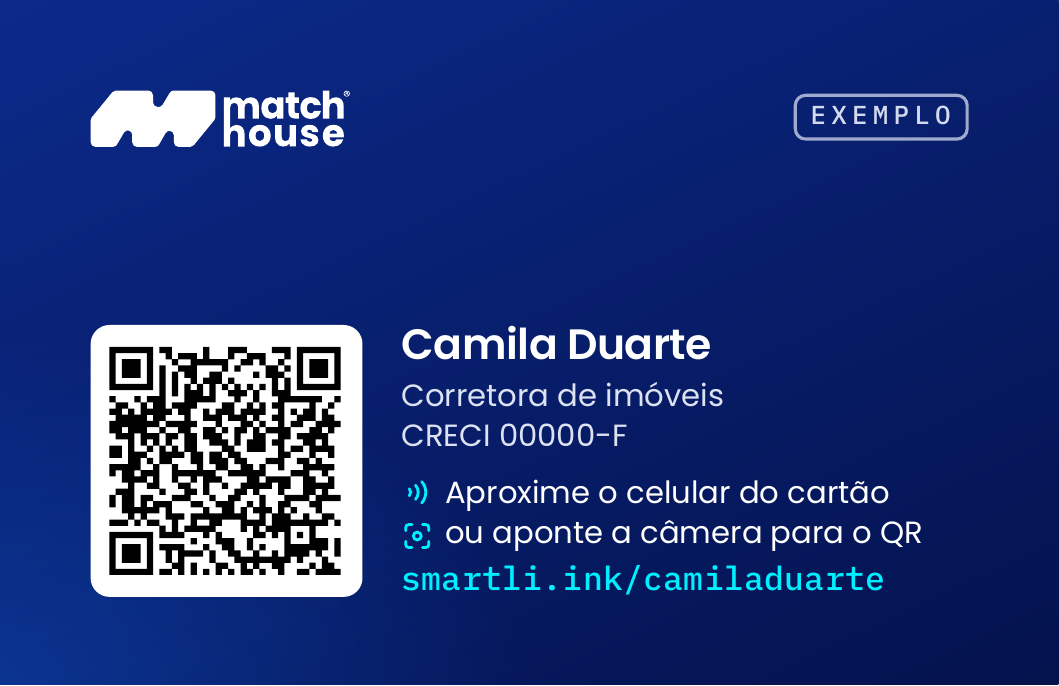
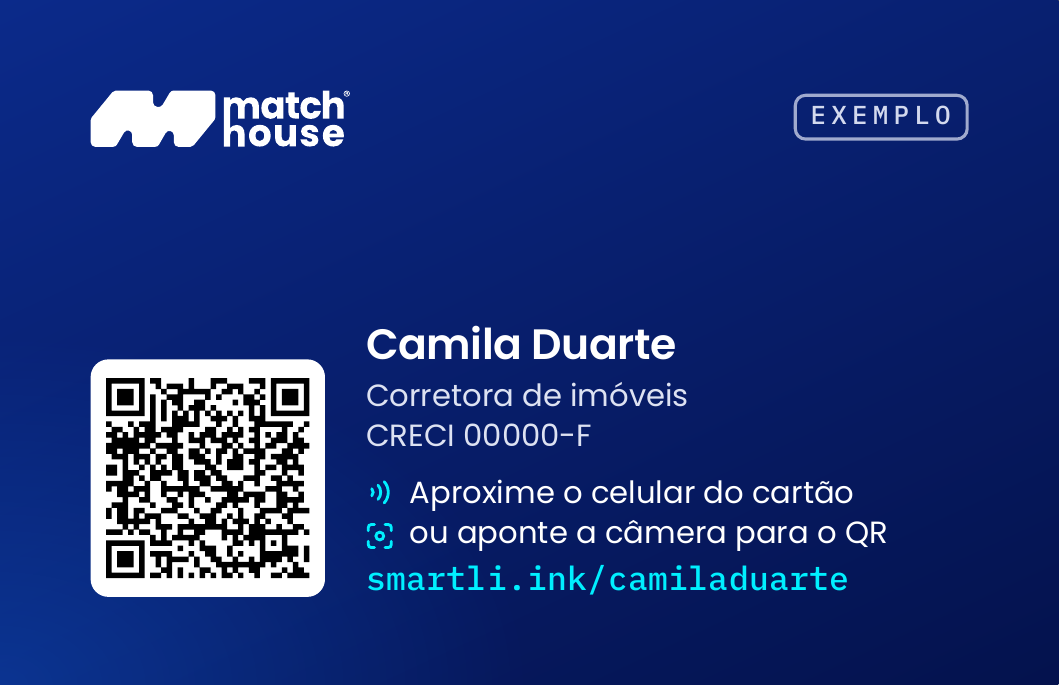
ferramentas: QR do verso do cartão um pouco menor (17 mm)
Pedido do Mateus: "diminua um pouco a parte do Qr code". O quadro branco
passa de 23 para 20 mm e o texto chega 3 mm para a esquerda. Amostra 2
(INMC) gerada de novo.

Claude-Session: https://claude.ai/code/session_01AcwN8eqkNLzNHMM46binBv

Changed region(s): [[0.0623, 0.4592, 0.8725, 0.8878]]

diff --git a/ferramentas/cartao/amostra-inmc-v2.html b/ferramentas/cartao/amostra-inmc-v2.html
@@ -18,7 +18,8 @@
     cor sai mais escura que na tela; os fundos da v1 saíram pretos);
   - texto branco ou quase branco, sem cinza escuro; o menor texto tem
     2,6 mm de corpo (7,4 pt), contra 1,8 mm (5,1 pt) na v1;
-  - QR de 19,5 mm (12,45 mm na v1), módulo de 0,53 mm.
+  - QR de 17 mm (12,45 mm na v1), módulo de 0,46 mm. Primeiro foi de 19,5 mm;
+    o Mateus pediu: "diminua um pouco a parte do Qr code".
   A v1 está no commit 1deddfa e em v1/.
 
   Página: 89,6 x 58 mm = cartão CR80 (85,6 x 54 mm) + 2 mm de sangria por
@@ -111,20 +112,20 @@
   .back .exemplo { right: 7.5mm; top: 7.9mm; }
 
   .qr-box {
-    left: 7.6mm; top: 27.5mm; width: 23mm; height: 23mm; background: #fff; border-radius: 1.6mm;
+    left: 7.6mm; top: 30.5mm; width: 20mm; height: 20mm; background: #fff; border-radius: 1.5mm;
     display: grid; place-items: center;
   }
-  .qr-box img { width: 19.5mm; height: 19.5mm; display: block; }
+  .qr-box img { width: 17mm; height: 17mm; display: block; }
 
-  .verso-nome { left: 34mm; top: 27.6mm; font-weight: 600; font-size: 3.6mm; line-height: 1; letter-spacing: -.01em; white-space: nowrap; }
-  .verso-sub { left: 34mm; font-weight: 400; font-size: 2.6mm; line-height: 1; color: var(--sub); white-space: nowrap; }
+  .verso-nome { left: 31mm; top: 27.6mm; font-weight: 600; font-size: 3.6mm; line-height: 1; letter-spacing: -.01em; white-space: nowrap; }
+  .verso-sub { left: 31mm; font-weight: 400; font-size: 2.6mm; line-height: 1; color: var(--sub); white-space: nowrap; }
   .verso-sub.s1 { top: 32.3mm; }
   .verso-sub.s2 { top: 35.6mm; }
-  .instr { left: 34mm; display: flex; align-items: center; gap: 1.3mm; font-size: 2.6mm; line-height: 1; white-space: nowrap; }
+  .instr { left: 31mm; display: flex; align-items: center; gap: 1.3mm; font-size: 2.6mm; line-height: 1; white-space: nowrap; }
   .instr svg { width: 2.4mm; height: 2.4mm; flex: none; }
   .instr.l1 { top: 40.5mm; }
   .instr.l2 { top: 44mm; }
-  .back .link { left: 34mm; top: 47.6mm; font-size: 2.8mm; letter-spacing: .01em; }
+  .back .link { left: 31mm; top: 47.6mm; font-size: 2.8mm; letter-spacing: .01em; }
 
   .exemplo {
     font-family: "Plex Mono", monospace; font-weight: 500; font-size: 2.2mm; line-height: 1;
@@ -177,7 +178,7 @@
     <!-- DADOS: QR (qr.mjs) -->
   <div class="abs qr-box"><img src="qr-inmcpatrimonial.svg" alt=""></div>
   <!-- DADOS: nome, profissão e CRECI -->
-  <div class="abs verso-nome" data-fit="48" data-min="2.8">INMC Patrimonial</div>
+  <div class="abs verso-nome" data-fit="51" data-min="2.8">INMC Patrimonial</div>
   <div class="abs verso-sub s1">Corretor de imóveis</div>
   <div class="abs instr l1">
     <svg viewBox="0 0 16 16" fill="none" stroke="var(--acc)" stroke-width="1.6" stroke-linecap="round"><path d="M3.5 6a3 3 0 0 1 0 4"/><path d="M7 4a6 6 0 0 1 0 8"/><path d="M10.5 2a9 9 0 0 1 0 12"/></svg>
@@ -187,7 +188,7 @@
     <svg viewBox="0 0 16 16" fill="none" stroke="var(--acc)" stroke-width="1.6" stroke-linecap="round"><path d="M1.5 5V3.2c0-1 .7-1.7 1.7-1.7H5M11 1.5h1.8c1 0 1.7.7 1.7 1.7V5M14.5 11v1.8c0 1-.7 1.7-1.7 1.7H11M5 14.5H3.2c-1 0-1.7-.7-1.7-1.7V11"/><circle cx="8" cy="8" r="2.2"/></svg>
     ou aponte a câmera para o QR
   </div>
-  <div class="abs link" data-fit="48" data-min="2.3">smartli.ink/inmcpatrimonial</div>
+  <div class="abs link" data-fit="51" data-min="2.3">smartli.ink/inmcpatrimonial</div>
 </section>
 
 <!-- ====================== BLUE · FRENTE ====================== -->
@@ -224,7 +225,7 @@
   <div class="bg"></div>
   <img class="abs wordmark" src="wordmark-branco.svg" alt="Match House">
     <div class="abs qr-box"><img src="qr-inmcpatrimonial.svg" alt=""></div>
-  <div class="abs verso-nome" data-fit="48" data-min="2.8">INMC Patrimonial</div>
+  <div class="abs verso-nome" data-fit="51" data-min="2.8">INMC Patrimonial</div>
   <div class="abs verso-sub s1">Corretor de imóveis</div>
   <div class="abs instr l1">
     <svg viewBox="0 0 16 16" fill="none" stroke="var(--acc)" stroke-width="1.6" stroke-linecap="round"><path d="M3.5 6a3 3 0 0 1 0 4"/><path d="M7 4a6 6 0 0 1 0 8"/><path d="M10.5 2a9 9 0 0 1 0 12"/></svg>
@@ -234,7 +235,7 @@
     <svg viewBox="0 0 16 16" fill="none" stroke="var(--acc)" stroke-width="1.6" stroke-linecap="round"><path d="M1.5 5V3.2c0-1 .7-1.7 1.7-1.7H5M11 1.5h1.8c1 0 1.7.7 1.7 1.7V5M14.5 11v1.8c0 1-.7 1.7-1.7 1.7H11M5 14.5H3.2c-1 0-1.7-.7-1.7-1.7V11"/><circle cx="8" cy="8" r="2.2"/></svg>
     ou aponte a câmera para o QR
   </div>
-  <div class="abs link" data-fit="48" data-min="2.3">smartli.ink/inmcpatrimonial</div>
+  <div class="abs link" data-fit="51" data-min="2.3">smartli.ink/inmcpatrimonial</div>
 </section>
 
 <script>

diff --git a/ferramentas/cartao/cartoes-camila.html b/ferramentas/cartao/cartoes-camila.html
@@ -15,7 +15,8 @@
     cor sai mais escura que na tela; os fundos da v1 saíram pretos);
   - texto branco ou quase branco, sem cinza escuro; o menor texto tem
     2,6 mm de corpo (7,4 pt), contra 1,8 mm (5,1 pt) na v1;
-  - QR de 19,5 mm (12,45 mm na v1), módulo de 0,53 mm.
+  - QR de 17 mm (12,45 mm na v1), módulo de 0,46 mm. Primeiro foi de 19,5 mm;
+    o Mateus pediu: "diminua um pouco a parte do Qr code".
   A v1 está no commit 1deddfa e em v1/.
 
   Página: 89,6 x 58 mm = cartão CR80 (85,6 x 54 mm) + 2 mm de sangria por
@@ -108,20 +109,20 @@
   .back .exemplo { right: 7.5mm; top: 7.9mm; }
 
   .qr-box {
-    left: 7.6mm; top: 27.5mm; width: 23mm; height: 23mm; background: #fff; border-radius: 1.6mm;
+    left: 7.6mm; top: 30.5mm; width: 20mm; height: 20mm; background: #fff; border-radius: 1.5mm;
     display: grid; place-items: center;
   }
-  .qr-box img { width: 19.5mm; height: 19.5mm; display: block; }
+  .qr-box img { width: 17mm; height: 17mm; display: block; }
 
-  .verso-nome { left: 34mm; top: 27.6mm; font-weight: 600; font-size: 3.6mm; line-height: 1; letter-spacing: -.01em; white-space: nowrap; }
-  .verso-sub { left: 34mm; font-weight: 400; font-size: 2.6mm; line-height: 1; color: var(--sub); white-space: nowrap; }
+  .verso-nome { left: 31mm; top: 27.6mm; font-weight: 600; font-size: 3.6mm; line-height: 1; letter-spacing: -.01em; white-space: nowrap; }
+  .verso-sub { left: 31mm; font-weight: 400; font-size: 2.6mm; line-height: 1; color: var(--sub); white-space: nowrap; }
   .verso-sub.s1 { top: 32.3mm; }
   .verso-sub.s2 { top: 35.6mm; }
-  .instr { left: 34mm; display: flex; align-items: center; gap: 1.3mm; font-size: 2.6mm; line-height: 1; white-space: nowrap; }
+  .instr { left: 31mm; display: flex; align-items: center; gap: 1.3mm; font-size: 2.6mm; line-height: 1; white-space: nowrap; }
   .instr svg { width: 2.4mm; height: 2.4mm; flex: none; }
   .instr.l1 { top: 40.5mm; }
   .instr.l2 { top: 44mm; }
-  .back .link { left: 34mm; top: 47.6mm; font-size: 2.8mm; letter-spacing: .01em; }
+  .back .link { left: 31mm; top: 47.6mm; font-size: 2.8mm; letter-spacing: .01em; }
 
   .exemplo {
     font-family: "Plex Mono", monospace; font-weight: 500; font-size: 2.2mm; line-height: 1;
@@ -173,7 +174,7 @@
   <!-- DADOS: QR (qr.mjs) -->
   <div class="abs qr-box"><img src="qr-camila.svg" alt=""></div>
   <!-- DADOS: nome, profissão e CRECI -->
-  <div class="abs verso-nome" data-fit="48" data-min="2.8">Camila Duarte</div>
+  <div class="abs verso-nome" data-fit="51" data-min="2.8">Camila Duarte</div>
   <div class="abs verso-sub s1">Corretora de imóveis</div>
   <div class="abs verso-sub s2">CRECI 00000-F</div>
   <div class="abs instr l1">
@@ -184,7 +185,7 @@
     <svg viewBox="0 0 16 16" fill="none" stroke="var(--acc)" stroke-width="1.6" stroke-linecap="round"><path d="M1.5 5V3.2c0-1 .7-1.7 1.7-1.7H5M11 1.5h1.8c1 0 1.7.7 1.7 1.7V5M14.5 11v1.8c0 1-.7 1.7-1.7 1.7H11M5 14.5H3.2c-1 0-1.7-.7-1.7-1.7V11"/><circle cx="8" cy="8" r="2.2"/></svg>
     ou aponte a câmera para o QR
   </div>
-  <div class="abs link" data-fit="48" data-min="2.3">smartli.ink/camiladuarte</div>
+  <div class="abs link" data-fit="51" data-min="2.3">smartli.ink/camiladuarte</div>
 </section>
 
 <!-- ====================== BLUE · FRENTE ====================== -->
@@ -223,7 +224,7 @@
   <img class="abs wordmark" src="wordmark-branco.svg" alt="Match House">
   <div class="abs exemplo">EXEMPLO</div>
   <div class="abs qr-box"><img src="qr-camila.svg" alt=""></div>
-  <div class="abs verso-nome" data-fit="48" data-min="2.8">Camila Duarte</div>
+  <div class="abs verso-nome" data-fit="51" data-min="2.8">Camila Duarte</div>
   <div class="abs verso-sub s1">Corretora de imóveis</div>
   <div class="abs verso-sub s2">CRECI 00000-F</div>
   <div class="abs instr l1">
@@ -234,7 +235,7 @@
     <svg viewBox="0 0 16 16" fill="none" stroke="var(--acc)" stroke-width="1.6" stroke-linecap="round"><path d="M1.5 5V3.2c0-1 .7-1.7 1.7-1.7H5M11 1.5h1.8c1 0 1.7.7 1.7 1.7V5M14.5 11v1.8c0 1-.7 1.7-1.7 1.7H11M5 14.5H3.2c-1 0-1.7-.7-1.7-1.7V11"/><circle cx="8" cy="8" r="2.2"/></svg>
     ou aponte a câmera para o QR
   </div>
-  <div class="abs link" data-fit="48" data-min="2.3">smartli.ink/camiladuarte</div>
+  <div class="abs link" data-fit="51" data-min="2.3">smartli.ink/camiladuarte</div>
 </section>
 
 <script>

diff --git a/ferramentas/cartao/LEIA-ME.md b/ferramentas/cartao/LEIA-ME.md
@@ -20,7 +20,7 @@ A v2 muda:
 - texto branco ou quase branco, sem cinza escuro; logo e wordmark brancos;
 - letra maior: menor texto 2,6 mm de corpo (7,4 pt), nome da IA 6,6 mm,
   link 3,0 mm na frente e 2,8 mm no verso (na v1, 1,8 a 2,1 mm);
-- QR de 19,5 mm (12,45 mm na v1);
+- QR de 17 mm (12,45 mm na v1), num quadro branco de 20 mm;
 - profissão e CRECI em duas linhas; "EXEMPLO" fora do número do cartão.
 
 A v1 está em `v1/` (PDF e prévias) e no commit 1deddfa (HTML).
